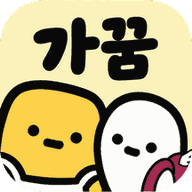
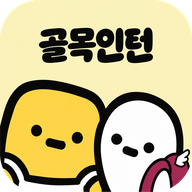
feat: 골목인턴 글자 로고와 앱 아이콘으로 교체

diff --git a/frontend/src/components/AppImage/images.ts b/frontend/src/components/AppImage/images.ts
@@ -1,4 +1,4 @@
-import logoGakkum from "../../assets/brand/logo-gakkum.svg";
+import logoGolmok from "../../assets/brand/logo-golmok.png";
 import appIcon from "../../assets/brand/app-icon.png";
 import taglineRole from "../../assets/brand/tagline-role.png";
 import characterOwner from "../../assets/characters/owner.svg";
@@ -61,7 +61,7 @@ export interface ImageInfo {
 /** 피그마 「0. 스타일 가이드」 › 공유 컴포넌트 › 일러스트 · 이미지 와 같은 이름을 쓴다. */
 export const IMAGES = {
   // 브랜드
-  logoGakkum: { src: logoGakkum, width: 180, height: 87, alt: "골목인턴" },
+  logoGolmok: { src: logoGolmok, width: 180, height: 53, alt: "골목인턴" },
   appIcon: { src: appIcon, width: 96, height: 96, alt: "골목인턴 앱 아이콘" },
   taglineRole: { src: taglineRole, width: 174, height: 58, alt: "가게에 필요한 작업을 학생이 전공을 살려 해드려요" },
 

diff --git a/frontend/src/components/MainAppBar/MainAppBar.tsx b/frontend/src/components/MainAppBar/MainAppBar.tsx
@@ -31,7 +31,7 @@ function MainAppBar({
           <h1 className="main-app-bar__title">{title}</h1>
         ) : (
           <span className="main-app-bar__logo">
-            <AppImage name="logoGakkum" width={54} priority />
+            <AppImage name="logoGolmok" height={20} priority />
             <AppImage name={role === "owner" ? "miniOwner" : "miniStudent"} alt="" priority />
           </span>
         )}

diff --git a/frontend/src/pages/LoginPage.tsx b/frontend/src/pages/LoginPage.tsx
@@ -23,7 +23,7 @@ function LoginPage() {
   return (
     <div className="login">
       <main className="login__body">
-        <AppImage name="logoGakkum" width={120} priority />
+        <AppImage name="logoGolmok" width={160} priority />
         <h1 className="login__title">골목인턴은 이렇게 돌아가요</h1>
         <UsageCardCarousel className="login__usage" />
       </main>

diff --git a/frontend/src/pages/RoleSelectPage.tsx b/frontend/src/pages/RoleSelectPage.tsx
@@ -72,7 +72,7 @@ function RoleSelectPage({ mode }: RoleSelectPageProps) {
 
       <main className="role-select__content">
         <div className="role-select__brand">
-          <AppImage name="logoGakkum" priority />
+          <AppImage name="logoGolmok" priority />
           <AppImage name="taglineRole" priority />
         </div>
 
